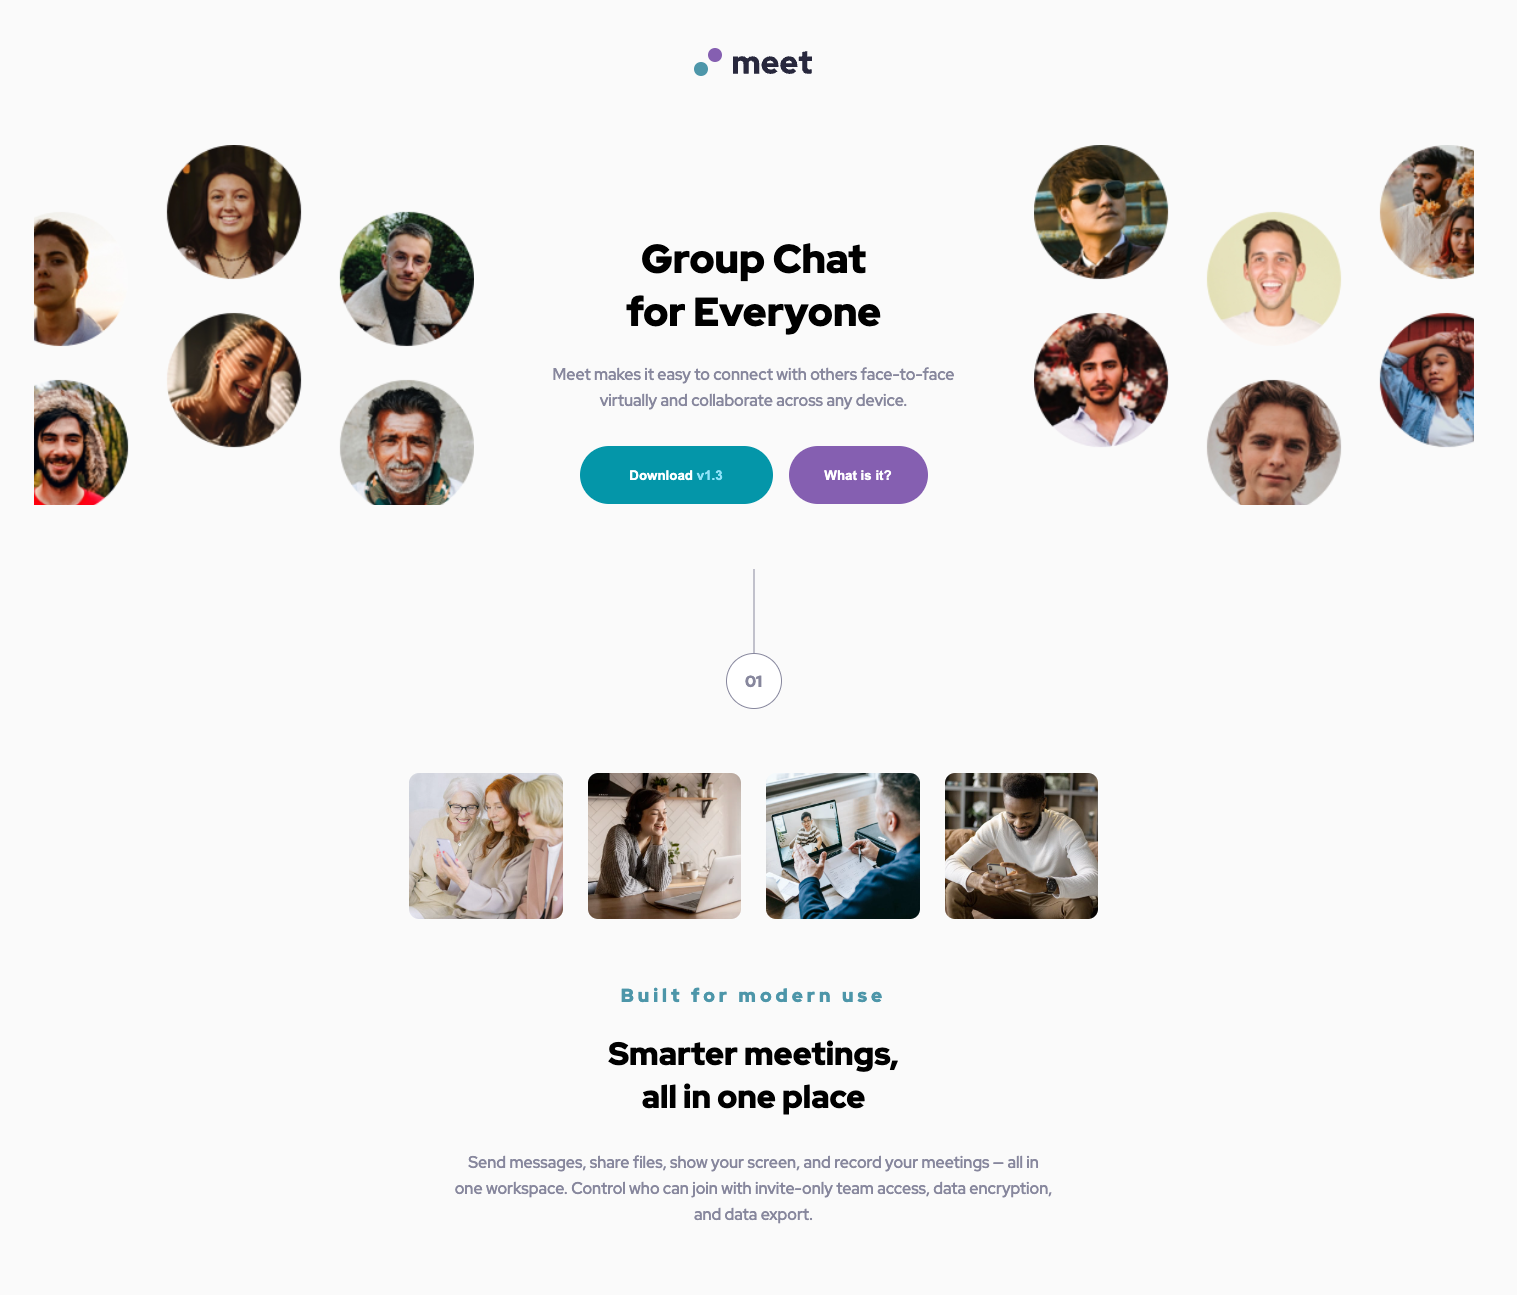
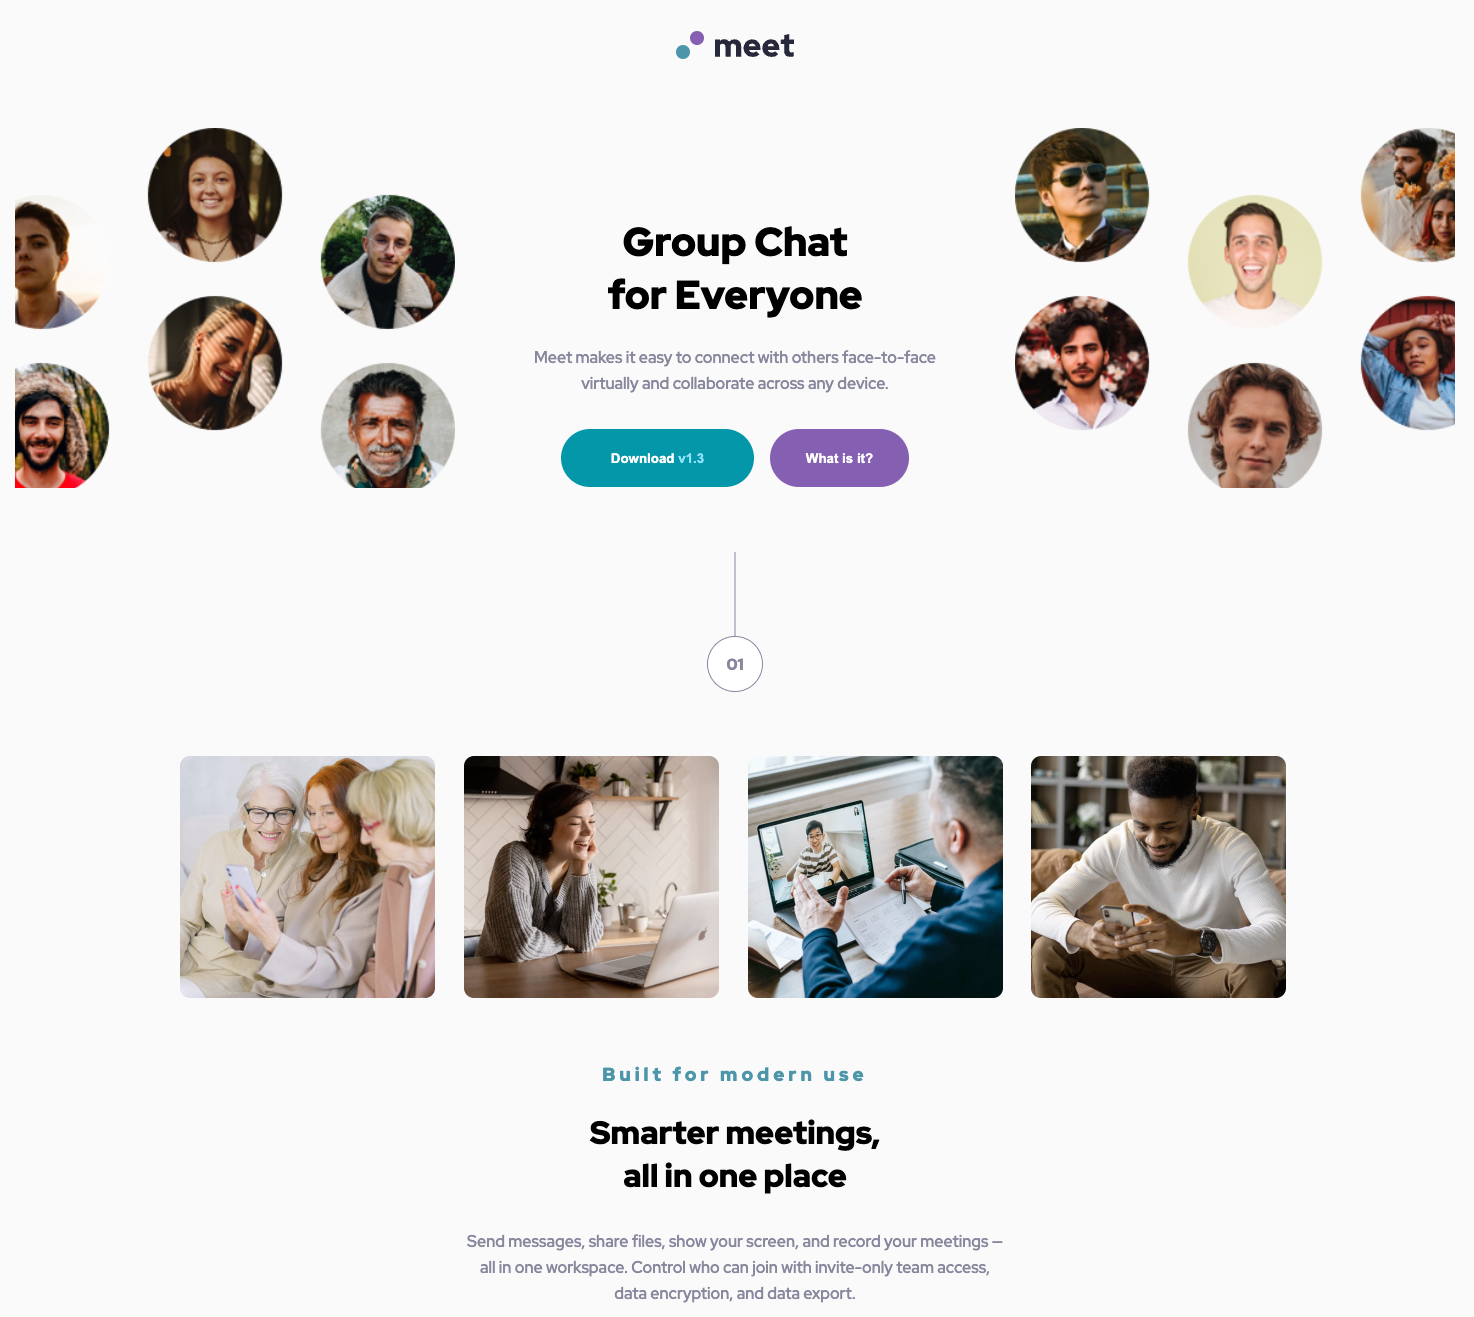
change main-content image widths

diff --git a/assets/css/main.css b/assets/css/main.css
@@ -14,7 +14,6 @@ body {
 #page-content {
   max-width: 700px;
   margin: 0 auto;
-  height: 100vh;
 }
 
 .main-header {
@@ -233,12 +232,16 @@ body {
     width: 689px;
   }
 
+  .photos img {
+    width: 164px;
+  }
+
   .hero__content {
     width: 460px;
   }
 
   .main-content {
-    width: 600px;
+    width: 540px;
   }
 
   .main-content h2 {
@@ -309,6 +312,15 @@ body {
 
   .btn-group .btn {
     margin-bottom: 0;
+  }
+
+  .photos {
+    width: 1110px;
+    margin: 0 auto 64px;
+  }
+
+  .photos img {
+    width: 255px;
   }
 
   .footer {
